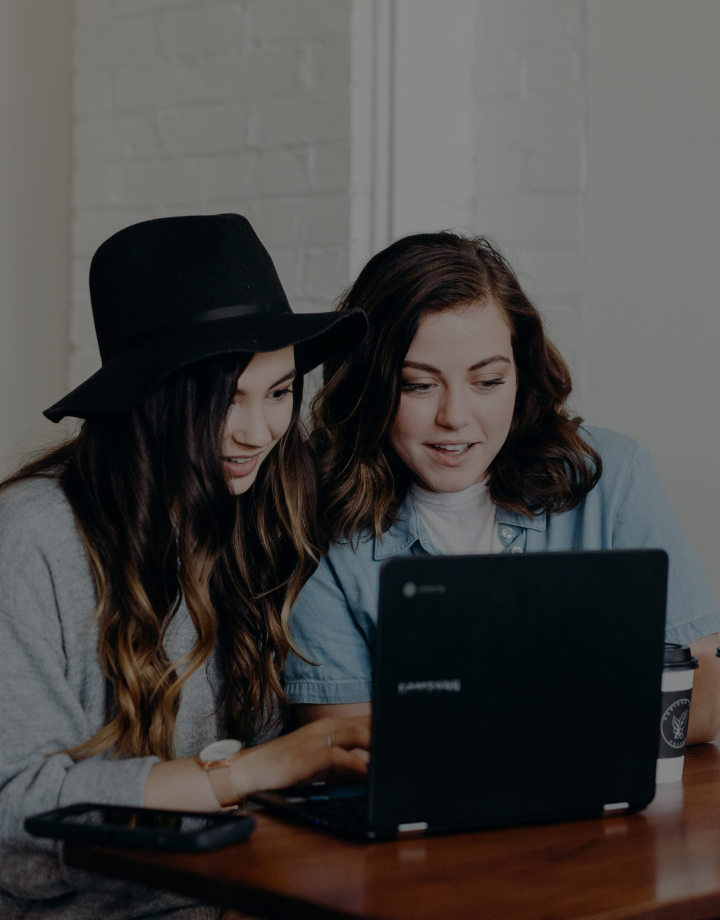
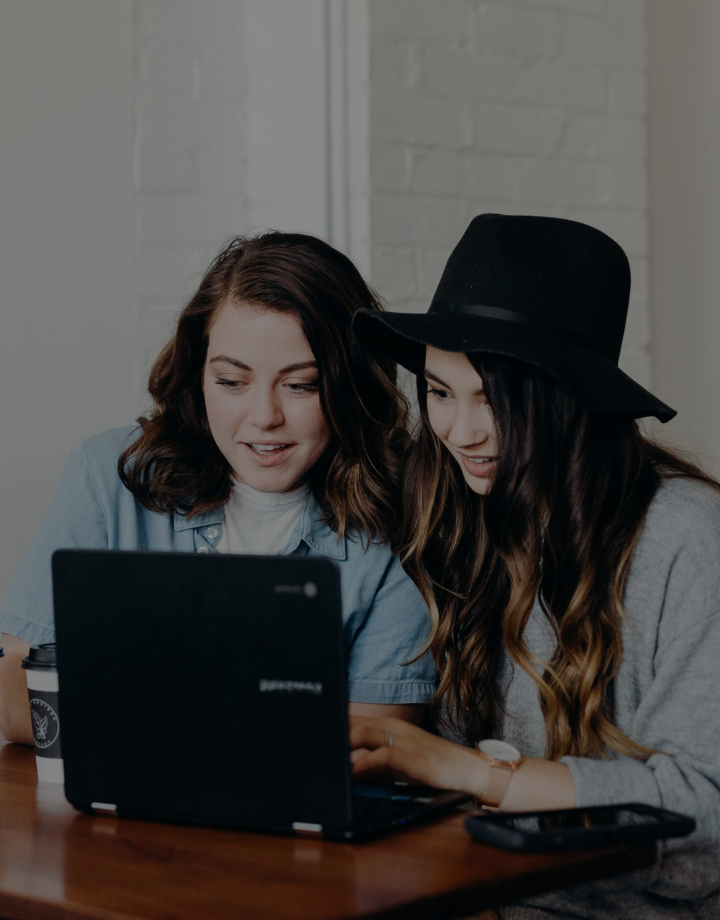
Inicia Formulario

diff --git a/contato.html b/contato.html
@@ -82,5 +82,18 @@
         </div>
       </div>
     </section>
+    <section class="form">
+      <div class="section-title">
+        <h2>Preencha o formulário:</h2>
+        <hr />
+      </div>
+      <p class="content-text">
+        Temos uma equipe sempre em prontidão para resolver suas dúvidas,
+        problemas, trazer dicas e orientações objetivas para tornar sua
+        experiência o mais prazerosa e tranquila possível. Preencha seus dados
+        que vamos retornar seu contato conforme a urgência do seu chamado. Pode
+        confiar!
+      </p>
+    </section>
   </body>
 </html>

diff --git a/css/told.css b/css/told.css
@@ -1,0 +1,13 @@
+.form h2 {
+  padding-top: 24px;
+}
+.form p {
+  text-align: center;
+  font-size: 16px;
+  line-height: 1.5;
+}
+@media screen and (min-width: 768px) {
+  .form p {
+    font-size: 20px;
+  }
+}

diff --git a/css/stylr.css b/css/stylr.css
@@ -7,3 +7,4 @@
 @import url(payments.css);
 @import url(testimonials.css);
 @import url(footer.css);
+@import url(told.css);
